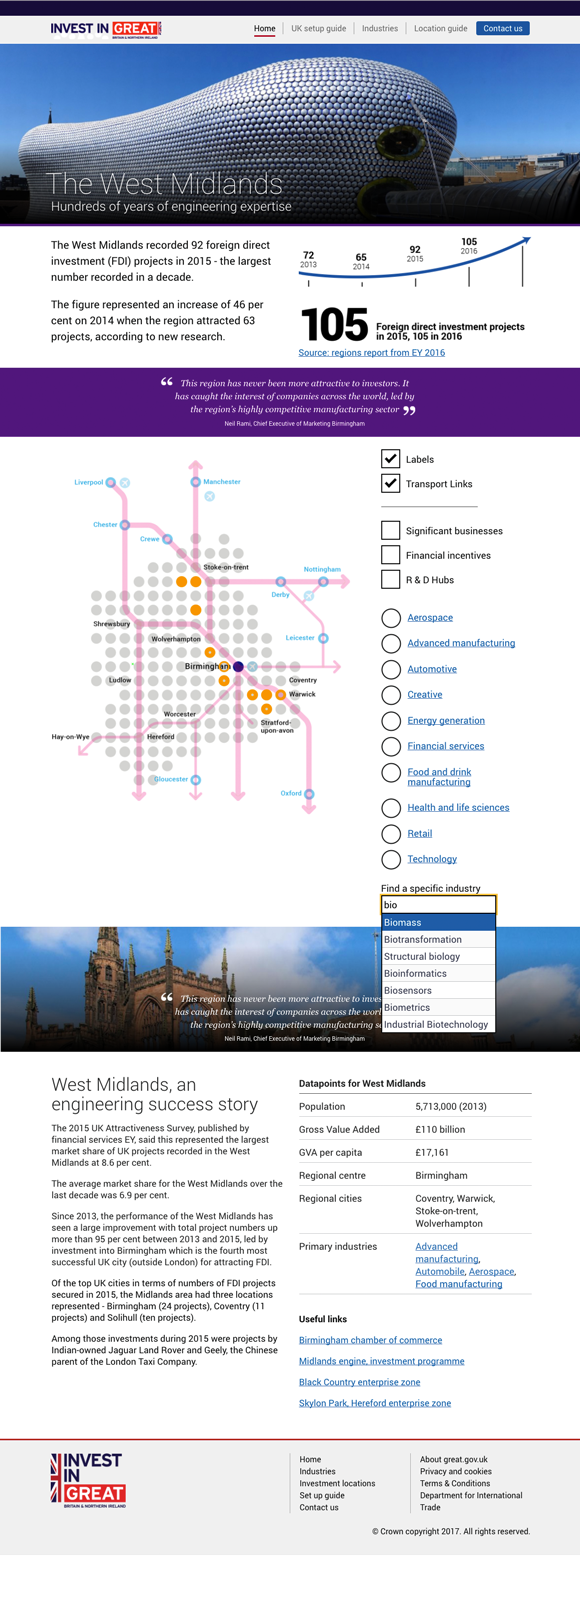
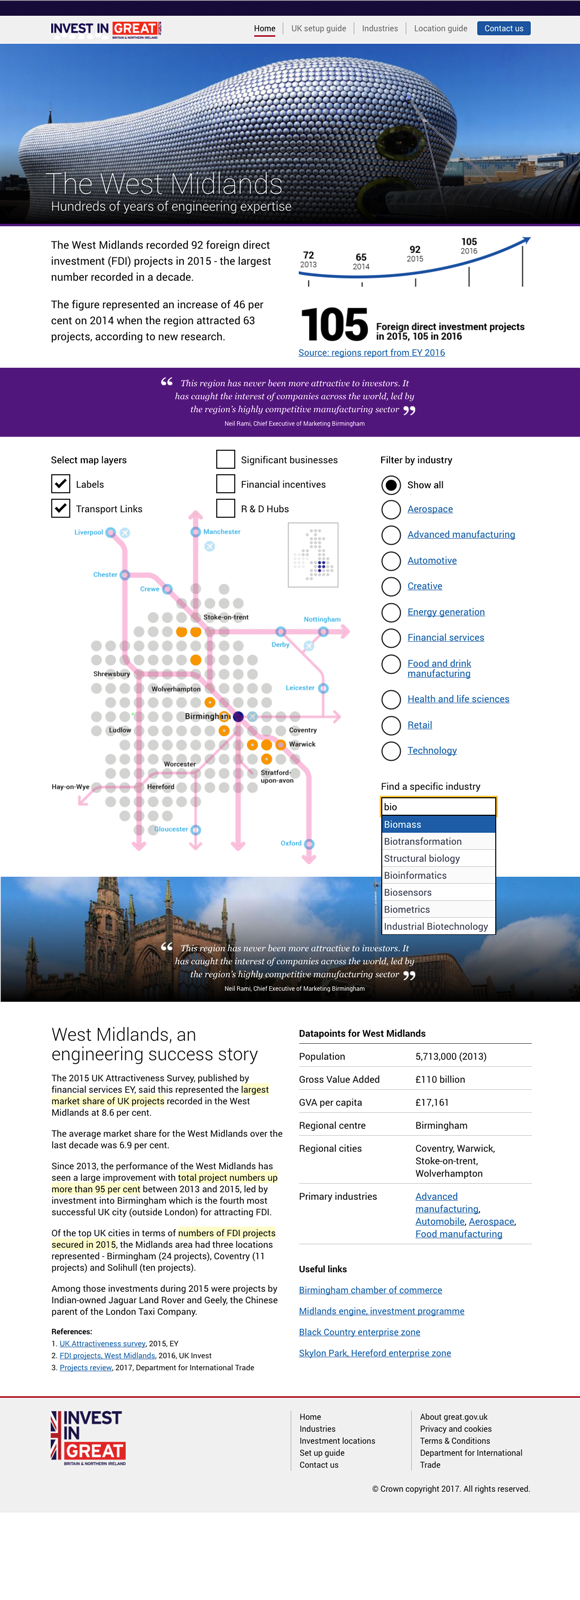
wrote up the instructional

Changed region(s): [[0.0, 0.2812, 1.0, 0.9688]]

diff --git a/app/views/location-1-notes.html b/app/views/location-1-notes.html
@@ -1,0 +1,113 @@
+{% extends "layout-simple.html" %}
+
+{% block page_title %}
+  GOV.UK prototype kit
+{% endblock %}
+
+{% block content %}
+
+<main id="content" role="main">
+  <div class="grid-row">
+    <div class="column-two-thirds">
+
+      <h1 class="heading-xlarge" style>
+        Region page
+        <span class="heading-secondary"></span>
+      </h1>
+      
+
+    </div>
+  </div>
+
+  <div id="fixed-image" style="position:fixed;top:0">
+      <a href="/public/images/region-page-mini.png">
+      <img src="/public/images/region-page-mini.png" width="50%">
+      </a>
+      </div>
+
+  <div class="grid-row">
+    <div class="column-one-third">
+
+      &nbsp;
+
+
+    </div>
+
+    <div class="column-two-thirds">
+
+    <h2 class="heading-large">
+        Anatomy of a region page
+      </h2>
+
+      <p><a href="location-1">Prototype of a region-level 'location profile' page</a>.</p>
+
+    <p><strong>Single large image at the top (Jumbotron)</strong></p>
+    <p>Because of the dramatic difference between the desktop crop and the mobile, it's probably better to find a different image rather than choose one that works on both.</p>
+
+    <p>This jumbotron could in theory work with a few images as a carousel or launch a regional video showcase too.</p>
+
+    <p><strong>Intro</strong></p>
+
+    <p>No fluff, get straight to the point, 'Why this region is a great place to invest' back it up with facts.</p>
+
+    <p><strong>Infographic</strong></p>
+
+    <p>Present the intro facts with a graphic, and source link</p>
+
+    <p><strong>Full bleed stripe: Quote</strong></p>
+
+    <p>This serves as a bit of visual breakup before the map, and a less factual piece of content... if it can link to a relevant story somewhere all the better, but doesn't need to.</p>
+
+    <p><strong>Interactive map</strong></p>
+
+    <p>Map layers should include Labels and Transport, on by default (probably - test this?). Filters for the industries, one or more should be on by default I think.</p>
+
+    <p>The Industry list should have radio buttons (ie. only one at a time to display) as the overload of all the data points isn't really helpful - but it does look pretty, hence the 'show all' button.</p>
+
+    <p>From our research, we find that users don't always know how we've 'filed' their particular sector, so the autocomplete field can find and select an industry from the input. This is an idea I'd really like to test with users.</p>
+
+    <p>The minimap should link back to a index/intro page for iOPs ... but we are not looking at that design *just* yet.</p>
+
+    <p><strong>Full bleed stripe: Image</strong></p>
+
+    <p>This should be another break for the page, trying to give it some unique flavour compared to the other regions, trying to connect back to wider GREAT branding and keep that 'full width immersion' feel here.</p>
+
+    <p><strong>Regional copy</strong></p>
+
+    <p>This is the main area for pulling out more headline attractiveness for this region. Back it up with facts, highlight the fact that provide links to the facts as references below.</p>
+
+    <p><strong>Datapoints</strong></p>
+
+    <p>This is a simple table with some facts that help understand the region - population, regional GDP/GVA?, cities, industries.</p>
+
+    <p><strong>Links</strong></p>
+
+    <p>A *small* number of links to the best external resources around. Review this with extreme prejudice - out of date or fluffy sites should not be considered useful.</p>
+
+
+    <p><strong>New footer</strong></p>
+
+    <p>This reflects the latest iteration of the ongoing header/nav/footer the rest of the GREAT teams are looking at, so I thought I would include it here. Not added yet is having the translation links in the footer, but they should be.</p>
+
+
+
+
+
+<script>
+$(window).scroll(function(){
+    $("#fixed-image").css("top",Math.max(0,250-$(this).scrollTop()));
+});
+
+</script>
+    
+
+
+    </div>
+  </div>
+</main>
+
+
+
+{% endblock %}
+
+

diff --git a/app/views/location-1.html b/app/views/location-1.html
@@ -212,7 +212,7 @@
 
         <div id="industry-picker-box">
 
-          <label class="form-label" for="industry-picker">
+          <label class="form-label" for="industry-picker" style="margin: 1.33em 0 0.66em 0">
             Find a specific industry
           </label>
 
@@ -414,15 +414,24 @@
 
     <h2 class="heading-large" style="font-weight: 300;margin-bottom: 0.5em">West Midlands, an engineering success story</h2>
 
-    <p>The 2015 UK Attractiveness Survey, published by financial services EY, said this represented the largest market share of UK projects recorded in the West Midlands at 8.6 per cent.</p>
+    <p>The 2015 UK Attractiveness Survey, published by financial services EY, said this represented the <span class="referenced">largest market share of UK projects</span> recorded in the West Midlands at 8.6 per cent.</p>
 
     <p>The average market share for the West Midlands over the last decade was 6.9 per cent.</p>
 
-    <p>Since 2013, the performance of the West Midlands has seen a large improvement with total project numbers up more than 95 per cent between 2013 and 2015, led by investment into Birmingham which is the fourth most successful UK city (outside London) for attracting FDI.</p>
+    <p>Since 2013, the performance of the West Midlands has seen a large improvement with <span class="referenced">total project numbers up more than 95 per cent</span> between 2013 and 2015, led by investment into Birmingham which is the fourth most successful UK city (outside London) for attracting FDI.</p>
 
-    <p>Of the top UK cities in terms of numbers of FDI projects secured in 2015, the Midlands area had three locations represented - Birmingham (24 projects), Coventry (11 projects) and Solihull (ten projects).</p>
+    <p>Of the top UK cities in terms of <span class="referenced">numbers of FDI projects secured in 2015</span>, the Midlands area had three locations represented - Birmingham (24 projects), Coventry (11 projects) and Solihull (ten projects).</p>
 
     <p>Among those investments during 2015 were projects by Indian-owned Jaguar Land Rover and Geely, the Chinese parent of the London Taxi Company.</p>
+
+    <ol class="list references-list" style="font-size: 0.8em">
+      <li><strong>References:</strong>
+      <li>1. <a href="#">UK Attractiveness survey</a>, 2015, EY</li>
+      <li>2. <a href="#">FDI projects, West Midlands</a>, 2016, UK Invest</li>
+      <li>3. <a href="#">Projects review</a>, 2017, Department for International Trade</li>
+    </ol>
+
+
 
   </div>
 

diff --git a/app/views/index.html b/app/views/index.html
@@ -25,7 +25,9 @@
 
     <p><a href="location-1">Prototype of a region-level 'location profile' page</a>, with a single layout showing images, region overview, data points presented as an infographic and an interactive map.</p>
 
-    <p>Interactive map allows user to see what industries are active in a region, what transport links are there, as well as R&amp;D Hubs, financial incentives, etc.
+    <p>Interactive map allows user to see what industries are active in a region, what transport links are there, as well as R&amp;D Hubs, financial incentives, etc.</p>
+
+    <p><a href="location-1-notes">I've written up notes on the various parts</a> of the region page.</p>
 
 
 

diff --git a/app/views/layout-simple.html b/app/views/layout-simple.html
@@ -2,6 +2,7 @@
 
 {% block head %}
   {% include "includes/head.html" %}
+  {% include "includes/scripts.html" %}
 {% endblock %}
 
 {% block cookie_message %}
@@ -32,7 +33,6 @@
 
 {% block body_end %}
   {% block scripts %}
-    {% include "includes/scripts.html" %}
     {% block page_scripts %}{% endblock %}
   {% endblock %}
   <!-- GOV.UK Prototype kit {{releaseVersion}} -->

diff --git a/app/assets/sass/location.scss b/app/assets/sass/location.scss
@@ -419,7 +419,19 @@ display: none;}
   }
 .industry-inactive {
 }
+span.referenced {
+  background-color: #ffc;
+}
+.references-list {
+  font-size: 0.85 !important;
+}
 
+
+#fixed-image {
+    position:fixed;
+    top:250px;
+    background-color:red;
+}
 
 
 /* For homepage existing rebuild */
